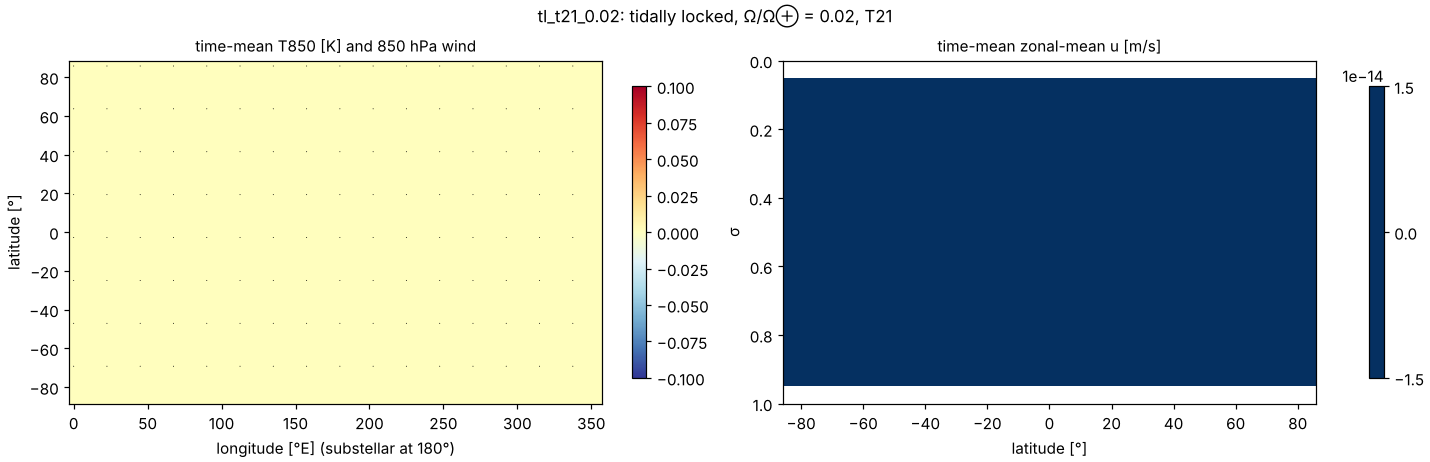
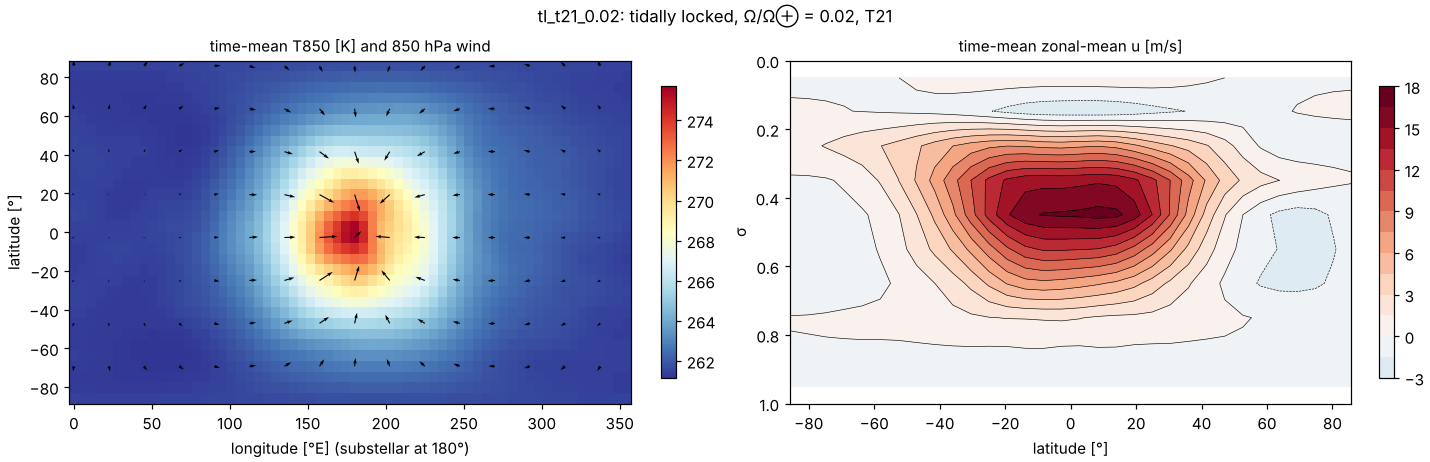
M5/M6 progress: tidally locked smoke runs, figures, laptop run list
Claude-Session: https://claude.ai/code/session_01QuxsPW1TkBb3JrYpavBmc9

diff --git a/docs/progress.md b/docs/progress.md
@@ -11,7 +11,9 @@ Format per SPEC.md §10.6. Newest entry at the bottom.
 | M2 Shallow water | done |
 | M3 Godot viewer | Rust side done (runner + gdext wrapper compile); Godot side pending on laptop |
 | M4 Primitive equations | done (tests 1–3 pass, test 4 recorded at T85) |
-| M5–M6 | in progress |
+| M5 Held–Suarez / tidally locked | implemented; cloud smoke runs at T21 L10 qualitatively right; acceptance runs (T42 L20, 800–1200 days) pending on laptop |
+| M6 Performance/robustness | determinism + restart tests pass; f32 builds; budget met in cloud; viewer PE level selection in Rust API; f32 HS jet check pending (laptop) |
+| M7 Moisture | in progress (owner go-ahead given 2026-11-04) |
 
 ## Versions
 
@@ -253,6 +255,51 @@ Tests: `resting_atmosphere`, `linear_gravity_wave_external`, `jw_steady_state_sh
 `pe_restart_is_bitwise`, `pe_thread_independent`, `vertical::*` (normal);
 `linear_gravity_waves`, `conservation_30_days`, `jw_steady_state_t85` (`--ignored`).
 
+## 2026-11-04 (night) — M5 forcing, online climatology, M6 robustness
+
+**M5 implemented**
+- `physics/held_suarez.rs`: `HeldSuarez` (all constants configurable in `[forcing]`) and
+  `TidallyLocked` (T_n = 250 K, ΔT_d = 70 K, λ_ss = 180°, cos⁴φ → max(0, cos φ cos(λ−λ_ss))⁴).
+  Damping times as durations (`tau_friction = "1day"` etc.). Unknown keys are rejected.
+- Cases: `held_suarez.toml` (T42 L20, Δt 20 min, 1200 d), `held_suarez_omega{025,2}.toml`
+  (800 d; Ω×2 at T85), `tidally_locked{,_omega01,_omega002}.toml` (T42 L20, 800 d),
+  quick-look `*_t21.toml` versions.
+- **Online climatology** (`[climatology] start, every, maps`): zonal means and second
+  moments `[lev][lat]` (u, v, t, uu, vv, tt, uv, vt and eddy covariances) plus full time-mean
+  maps, accumulated after spin-up and written to `out/<run>/climatology/`; continues
+  bitwise after a restart. A 1200-day T42 L20 run therefore needs no daily 3D output.
+- `tools/zonal_mean.py` (cross sections + all HS acceptance metrics, Hadley-cell edge from
+  the mean meridional streamfunction, KE trend), `tools/tidally_locked.py` (maps + metrics).
+- Pressure-level fields and global kinetic energy in `diagnostics.csv`.
+
+**Cloud smoke runs (NOT the acceptance configuration)**
+- HS T21 L10, 300 days, statistics days 100–300 (481 samples): jets 29.7 m/s (NH) and
+  29.3 m/s (SH) near 45–52°; lowest-level [u] −3.9 m/s in the tropics and +3.9 m/s in
+  midlatitudes; hemispheric asymmetry 2.2 m/s; Hadley cells to ≈ 36°; KE trend +6.5% over
+  200 days (spin-up still visible at day 100). With only 10 levels the jet maximum sits at
+  the top full level σ = 0.05 in the NH; the formal criterion needs T42 L20.
+  Figure `docs/figures/M5/hs_t21l10_300d_zonal_mean.png` (qualitatively HS94 Fig. 1–2).
+- Tidally locked T21 L10, 200 days, statistics days 100–200:
+
+  | Ω/Ω⊕ | equatorial [u] above σ = 0.5 (mean) | T850 day–night | T500 day–night |
+  |---|---|---|---|
+  | 1 | +8.2 m/s (superrotation) | 7.9 K | 7.1 K |
+  | 0.1 | +16.1 m/s | 6.8 K | 2.4 K |
+  | 0.02 | +7.4 m/s | 3.8 K | **0.6 K** (weak temperature gradient) |
+
+  At Ω⊕/50 the 850 hPa flow converges on the substellar point (day–night overturning).
+  Figures `docs/figures/M5/tl_t21l10_omega{1.0,0.1,0.02}.png`.
+
+**M6**
+- Integration test `pe_bitwise_across_threads_and_restart` (normal, ≈ 8 s release): HS-forced
+  T21 L10 with stations and climatology, 10 days; output byte-identical for 1 vs 4 threads,
+  and for a 6 + 4 day restart (with different thread counts) vs an uninterrupted run.
+- `f32` feature: library, headless and test code compile; CI builds f32 and runs W6 for 2 days.
+  Precision-specific unit tests assert f64 tolerances and are not meant to pass in f32.
+- Budget: HS T42 L20 Δt 20 min = **0.67 model days/s on 4 vCPU** (cloud VM, `nproc` = 4) → one
+  model year ≈ 9 min. The SPEC target is ≤ 10 min on 8 threads of the i7-11850H.
+- Viewer: `ModelRunner` snapshots carry all levels of 3D fields; `get_field_image(name, level)`.
+
 ---
 
 ## Laptop checklist (things the cloud session could not do)
@@ -262,6 +309,27 @@ Tests: `resting_atmosphere`, `linear_gravity_wave_external`, `jw_steady_state_sh
    `--features double`, fix `godot/toyclim.gdextension` (compatibility_minimum 4.3), run the
    headless check, then build the globe/map/UI scene.
 2. Re-check Williamson test 6 and Galewsky constants against the original papers.
+3. **Acceptance runs** (each in the background, `--release`; analyse with the tools):
+
+   ```bash
+   cargo build --release
+   RAYON_NUM_THREADS=8 target/release/toyclim run --config cases/held_suarez.toml --out out/hs
+   python tools/zonal_mean.py out/hs -o docs/figures/M5/hs_t42l20_zonal_mean.png
+   for c in tidally_locked tidally_locked_omega01 tidally_locked_omega002; do
+     target/release/toyclim run --config cases/$c.toml --out out/$c
+     python tools/tidally_locked.py out/$c -o docs/figures/M5/$c.png; done
+   for c in held_suarez_omega025 held_suarez_omega2; do
+     target/release/toyclim run --config cases/$c.toml --out out/$c
+     python tools/zonal_mean.py out/$c -o docs/figures/M5/$c.png; done
+   ```
+
+   M5 criteria (jets 26–34 m/s at 38–50°, σ 0.15–0.35; surface easterlies/westerlies;
+   asymmetry < 3 m/s; KE trend < 5% over the last 1000 days) are printed by
+   `zonal_mean.py`. Also time one model year (`toyclim bench --config cases/held_suarez.toml
+   --length 365day`) on 8 threads → M6 budget.
+4. M6 f32 check: build with `--features f32` (`cargo build --release -p toyclim-headless
+   --features f32 --target-dir target/f32`), rerun HS, compare jets and record the speedup.
+5. Compare HS with SpeedyWeather/Isca output placed in `reference/` (and later PlaSim).
 
 ---
 
